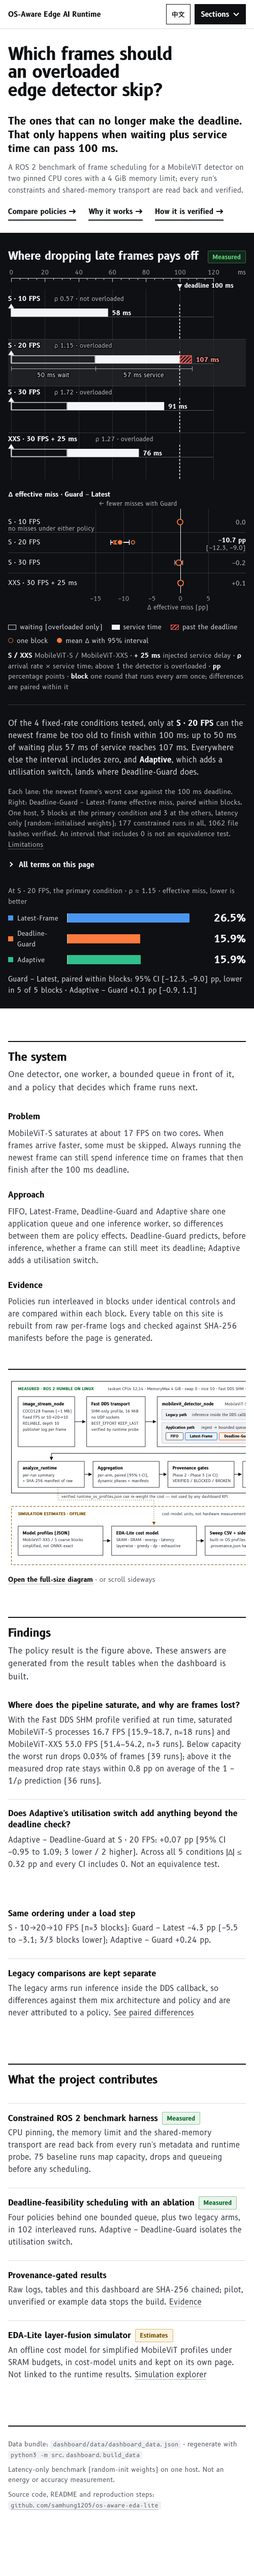
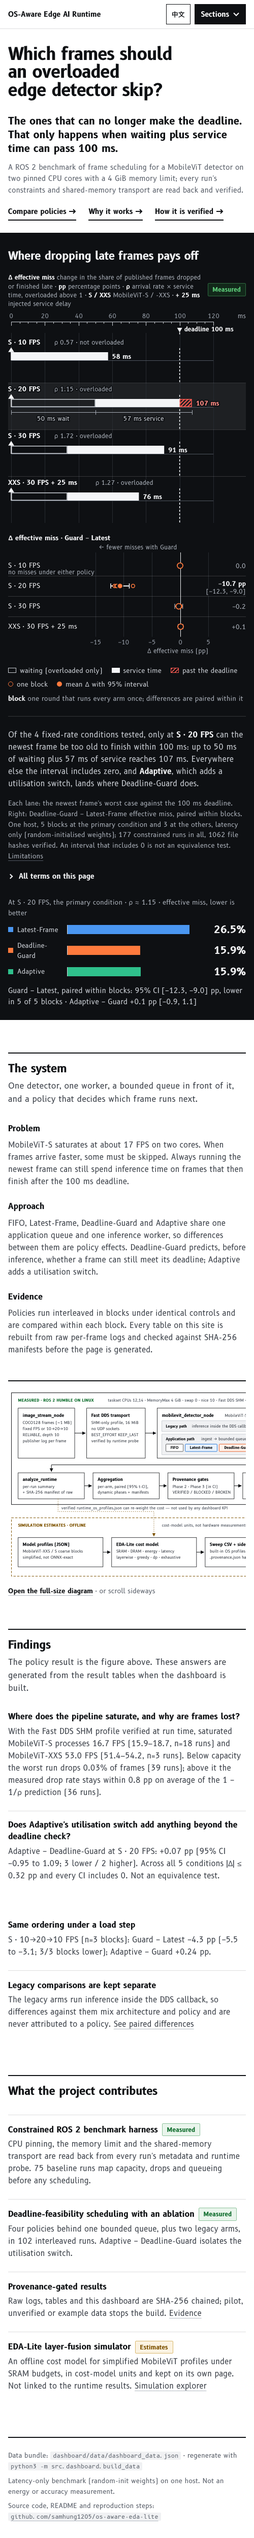
fix(dashboard): critique round 4 — glossary statistic, term key, labels
- Glossary: an interval that excludes 0 speaks to the mean under the
  t-model; sign consistency is the separate block count.
- The key to Δ effective miss, pp, ρ, S / XXS and + 25 ms sits in the plate
  head, inside the first viewport; short screens still show all four lanes.
- zh headline keeps 邊緣偵測器 together.
- Line-chart reference labels sit right-aligned above their line (under it
  when an end label is in the way); end labels avoid reference lines.
- README screenshots refreshed; DESIGN.md and the AI log updated.

Changed region(s): [[0.0, 0.0, 1.0, 0.9996]]

diff --git a/dashboard/assets/views/overview.js b/dashboard/assets/views/overview.js
@@ -30,7 +30,7 @@
     sec.innerHTML = `
       <div class="hero">
         <div class="hero-main">
-          <h2>${L("Which frames should an overloaded edge detector skip?", '過載的邊緣偵測器<span class="nowrap">該跳過哪些 frame？</span>')}</h2>
+          <h2>${L("Which frames should an overloaded edge detector skip?", '過載的<span class="nowrap">邊緣偵測器</span><span class="nowrap">該跳過哪些 frame？</span>')}</h2>
         </div>
         <div class="hero-copy">
           <p class="answer-lead">${L(`The ones that can no longer make the deadline. That only happens when waiting plus service time can pass ${dl} ms.`, `跳過那些已經趕不上 deadline 的 frame。只有在「等待 + service time」可能超過 ${dl} ms 時才會發生。`)}</p>
@@ -43,6 +43,8 @@
         <div class="plate-inner">
           <div class="fig-head">
             <div class="titles"><h3>${L("Where dropping late frames pays off", "丟棄趕不上的 frame 何時有用")}</h3></div>
+            <p class="key-terms head-key">${L("<b>Δ effective miss</b> change in the share of published frames dropped or finished late · <b>pp</b> percentage points · <b>ρ</b> arrival rate × service time, overloaded above 1 · <b>S / XXS</b> MobileViT-S / -XXS · <b>+ 25 ms</b> injected service delay",
+              "<b>Δ effective miss</b> 已發佈 frame 中被丟棄或遲到比例的變化 · <b>pp</b> 百分點 · <b>ρ</b> 抵達速率 × service time，大於 1 即過載 · <b>S / XXS</b> MobileViT-S / -XXS · <b>+ 25 ms</b> 注入的 service delay")}</p>
             ${X.MEAS}</div>
           <div class="chart" id="hero-regime"></div>
           <div class="plate-key">
@@ -53,8 +55,7 @@
               <span class="k"><span class="sw ring" style="border-color:${GUARD}"></span>${L("one block", "單一 block")}</span>
               <span class="k"><span class="sw dot" style="background:${GUARD}"></span>${L("mean Δ with 95% interval", "平均 Δ 與 95% 區間")}</span>
             </div>
-            <p class="key-terms">${L("<b>S / XXS</b> MobileViT-S / MobileViT-XXS · <b>+ 25 ms</b> injected service delay · <b>ρ</b> arrival rate × service time; above 1 the detector is overloaded · <b>pp</b> percentage points · <b>block</b> one round that runs every arm once; differences are paired within it",
-              "<b>S / XXS</b> MobileViT-S / MobileViT-XXS · <b>+ 25 ms</b> 注入的 service delay · <b>ρ</b> 抵達速率 × service time，大於 1 表示過載 · <b>pp</b> 百分點 · <b>block</b> 每個 arm 各跑一次的一輪，差異在 block 內配對")}</p>
+            <p class="key-terms">${L("<b>block</b> one round that runs every arm once; differences are paired within it", "<b>block</b> 每個 arm 各跑一次的一輪，差異在 block 內配對")}</p>
           </div>
           <div class="plate-foot">
             <div>
@@ -69,7 +70,7 @@
                   <dt>ρ</dt><dd>${L("Utilisation, arrival rate × service time. Above 1 the detector cannot keep up and must skip frames.", "使用率，即抵達速率 × service time。大於 1 表示偵測器跟不上，必須跳過 frame。")}</dd>
                   <dt>Arm</dt><dd>${L("One configuration under test: the four policies that share the application queue (FIFO, Latest-Frame, Deadline-Guard, Adaptive) and two legacy paths that run inference in the DDS callback.", "一個受測配置：共用 application queue 的四種 policy（FIFO、Latest-Frame、Deadline-Guard、Adaptive），以及在 DDS callback 內執行 inference 的兩條 legacy 路徑。")}</dd>
                   <dt>Block</dt><dd>${L("One round in which every arm runs once, back to back, in rotating order. Arms are compared within a block, so slow drift of the host cancels out.", "每個 arm 依輪替順序各跑一次的一輪。比較都在 block 內進行，主機狀態的緩慢漂移因此互相抵銷。")}</dd>
-                  <dt>${L("Paired Δ, 95% CI", "Paired Δ、95% CI")}</dt><dd>${L("The mean of the per-block differences and its t-interval. An interval that stays on one side of 0 means the difference kept its sign across blocks.", "各 block 差值的平均與其 t 區間。區間整個落在 0 的同一側，表示各 block 的差異方向一致。")}</dd>
+                  <dt>${L("Paired Δ, 95% CI", "Paired Δ、95% CI")}</dt><dd>${L("The mean of the per-block differences and its 95% t-interval. An interval that excludes 0 means the mean difference is distinguishable from 0 under the t-model; whether every block moved the same way is a separate count, shown as blocks lower / higher.", "各 block 差值的平均與其 95% t 區間。區間不包含 0，表示在 t 模型下平均差異可與 0 區分；每個 block 的方向是否一致是另一回事，由「較低 / 較高的 blocks」計數呈現。")}</dd>
                 </dl></details>
             </div>
             <div class="result" role="group" aria-label="${L("Main result", "主要結果")}">

diff --git a/dashboard/assets/charts.js b/dashboard/assets/charts.js
@@ -398,10 +398,11 @@
         const m = lo + (hi - lo) * f;
         text(s, x(m) + 8, y(m) + 16, cfg.diag, { class: "reflabel", "text-anchor": "start" });
       }
+      const refLabels = [];
       for (const r of cfg.refs || []) {
         if (r.y !== undefined) {
           svg("line", { x1: padL, x2: W - padR, y1: y(r.y), y2: y(r.y), class: "refline" }, s);
-          text(s, padL + 6, y(r.y) - 5, r.label, { class: "reflabel" });
+          refLabels.push(r); // placed after the end labels are known (below)
         } else {
           refMark(s, x(r.x), padT + 8, H - padB, r.label, W - padR);
         }
@@ -426,7 +427,17 @@
       for (let i = 1; i < ends.length; i++) {
         if (Math.abs(ends[i].x - ends[i - 1].x) < 60 && ends[i].y - ends[i - 1].y < 16) ends[i].y = ends[i - 1].y + 16;
       }
+      // an end label that would sit on a horizontal reference line moves just above it
+      for (const e of ends) for (const r of refLabels) if (Math.abs(e.y - 4 - y(r.y)) < 7) e.y = y(r.y) - 5;
       ends.forEach((e) => text(s, e.x, e.y, e.name, { class: "vlabel" }));
+      // Reference labels sit right-aligned above their line, clear of curves rising through the left of
+      // the plot; one that would meet an end label inside the plot goes under the line instead.
+      for (const r of refLabels) {
+        if (!r.label) continue;
+        const x1 = W - padR - 4, x0 = x1 - measure(r.label, 12), ly = y(r.y);
+        const hit = ends.some((e) => e.x < x1 && e.x + measure(e.name, 12.5) > x0 && Math.abs(e.y - 4 - (ly - 10)) < 14);
+        text(s, x1, hit ? ly + 15 : ly - 6, r.label, { class: "reflabel", "text-anchor": "end" });
+      }
       if (cfg.yTitle) {
         const t = text(s, 0, 0, cfg.yTitle, { class: "axis-title", transform: `translate(11 ${(H - padB + padT) / 2}) rotate(-90)`, "text-anchor": "middle" });
         t.setAttribute("x", 0);

diff --git a/dashboard/assets/style.css b/dashboard/assets/style.css
@@ -256,7 +256,9 @@ p { margin: 0 0 var(--sp-3); }
    and the deadline fit in the first viewport, which is where the brief's story has to be told. */
 @media (min-width: 961px) and (max-height: 860px) {
   :root { --fs-3xl: 46px; }
-  main { padding-top: var(--sp-5); }
+  main { padding-top: var(--sp-4); }
+  .hero { padding-bottom: var(--sp-3); }
+  .plate { padding-top: var(--sp-3); }
 }
 .plate .answer { color: var(--ink-2); font-size: var(--fs-prose); max-width: var(--measure); margin: 0 0 var(--sp-4); }
 .plate .answer b { color: var(--ink); }
@@ -267,6 +269,8 @@ p { margin: 0 0 var(--sp-3); }
 .plate-key .legend { margin: 0; }
 .key-terms { margin: 0; font-size: var(--fs-sm); color: var(--ink-3); max-width: var(--measure-note); }
 .key-terms b { color: var(--ink); }
+.plate .fig-head .titles { flex: 0 1 auto; }
+.key-terms.head-key { flex: 1 1 360px; max-width: 46em; font-size: var(--fs-xs); line-height: 1.45; margin: 4px 0 0; }
 .plate-foot .glossary { margin: var(--sp-3) 0 0; }
 .plate-foot { display: grid; grid-template-columns: minmax(0, 7fr) minmax(0, 5fr); gap: var(--sp-5) 56px; align-items: start; border-top: 1px solid var(--border); margin-top: var(--sp-5); padding-top: var(--sp-5); }
 

diff --git a/DESIGN.md b/DESIGN.md
@@ -305,7 +305,7 @@ A two-column definition list ruled by a 1 px ink top line and hairline row separ
 1 px ink rules top and bottom of the wrap, ink rule under the header row, hairline rows, right-aligned tabular numbers with the first column left. Wide tables scroll inside the wrap with a 56 px right-edge fade until scrolled to the end. Long tables collapse behind a chevron `details` toggle.
 
 ### Timing diagram (signature)
-One lane per condition against a shared millisecond ruler: release arrow at t = 0, open bar for waiting / frame age, solid block for measured service, red hatch with outline for time past the deadline, a dashed deadline line with a down arrowhead crossing all lanes, value labels haloed in the ground colour. The traced (primary) lane's difference is set at 20px bold with its 95% interval beneath it; a degenerate interval at 0 is labelled "no misses under either policy" instead of reading as no effect. Dimension lines (e.g. 50 ms wait + 57 ms service) sit under the traced lane. Hovering or focusing a lane (or one of its block dots) moves the dimension lines and the 7 % trace band to it. Lanes are focusable in row order and the keyboard enters on the traced lane; hover shows no tooltip (every number is drawn), keyboard focus does. Ticks and labels are hidden from screen readers; the labelled marks carry the numbers. The legend and a one-line key to ρ, pp and block sit directly under the figure. On first load only, a playhead draws the lanes left to right; under `prefers-reduced-motion` the finished figure is shown.
+One lane per condition against a shared millisecond ruler: release arrow at t = 0, open bar for waiting / frame age, solid block for measured service, red hatch with outline for time past the deadline, a dashed deadline line with a down arrowhead crossing all lanes, value labels haloed in the ground colour. The traced (primary) lane's difference is set at 20px bold with its 95% interval beneath it; a degenerate interval at 0 is labelled "no misses under either policy" instead of reading as no effect. Dimension lines (e.g. 50 ms wait + 57 ms service) sit under the traced lane. Hovering or focusing a lane (or one of its block dots) moves the dimension lines and the 7 % trace band to it. Lanes are focusable in row order and the keyboard enters on the traced lane; hover shows no tooltip (every number is drawn), keyboard focus does. Ticks and labels are hidden from screen readers; the labelled marks carry the numbers. A one-line key to Δ effective miss, pp, ρ, S / XXS and + 25 ms sits in the plate head beside the title (inside the first viewport); the legend and the definition of a block sit directly under the figure. Horizontal reference lines label themselves right-aligned above the line, or under it when an end label is in the way. On first load only, a playhead draws the lanes left to right; under `prefers-reduced-motion` the finished figure is shown.
 
 ### Chart notation (all charts)
 Gridlines in grid-hairline, zero and baseline in 1.25 px ink, 12px tick labels in tick-grey; dot rows show one dot per run with a mean tick and min–max line; forest plots show mean of block differences, 95 % t-interval and open block circles; ring marks get a 2 px ground-colour knock-out. Only marks carrying a tooltip take the pointer.

diff --git a/report/ai_interaction_log.md b/report/ai_interaction_log.md
@@ -511,3 +511,16 @@ Implementation decision:
 - First viewport: the answer names the rule (waiting + service can pass the deadline); the Δ head names the metric; the term key adds S / XXS and + 25 ms. The plate drops its two-item measurement list (the load-step result stays in Findings, run and hash counts move into the figure note) and the paired line no longer repeats −10.7 pp.
 - Keyboard: up / down move between lanes, left / right through a lane's block dots; a lane's keyboard tooltip is anchored inside the lane plot; a resting pointer no longer marks a second lane; the architecture image is one tab stop with its alt text, plus one "open full size" link.
 - Minor: measures on the single-column `.prose-cols` and `.limits` text, zh headline keeps "該跳過哪些 frame" together, one condition choice shared by Scheduling and Mechanism, a builder-enforced check shown as "enforced" rather than "passed", full SHA-256 on hover, remaining zh strings, noscript names the `.js` bundle. No data, builder or bundle change.
+
+## 2026-11-17 Dashboard critique round 4, repository link and PR
+
+Prompt summary:
+
+- Handle the open items in order: clickable repository link, refreshed README screenshots, push, re-run `/impeccable critique` (28/40; detector: 3 advisories, all false positives). Owner: fix the two P1 and two small P2, then open a PR; the Simulation control rework stays for later.
+
+Implementation decision:
+
+- Owner approved relaxing the frontend test: `tests/test_dashboard.py` allow-lists exactly the repository URL as an `<a href>`; `src=` and every other external URL stay forbidden (`PRODUCT.md` records the exception).
+- README screenshots in `docs/images/` regenerated with headless Chrome from the current build (light scheme, 1440 px; phone 500 px).
+- Glossary: a 95% interval that excludes 0 is described as a statement about the mean under the t-model; sign consistency across blocks is the separate block count (the old wording conflated them).
+- First viewport: the term key (Δ effective miss, pp, ρ, S / XXS, + 25 ms) moved into the plate head; on short screens the space above the plate is tightened so all four lanes still fit at 1280 × 720. The zh headline keeps 邊緣偵測器 together. Reference-line labels no longer collide with the Baseline throughput curves or end labels.
